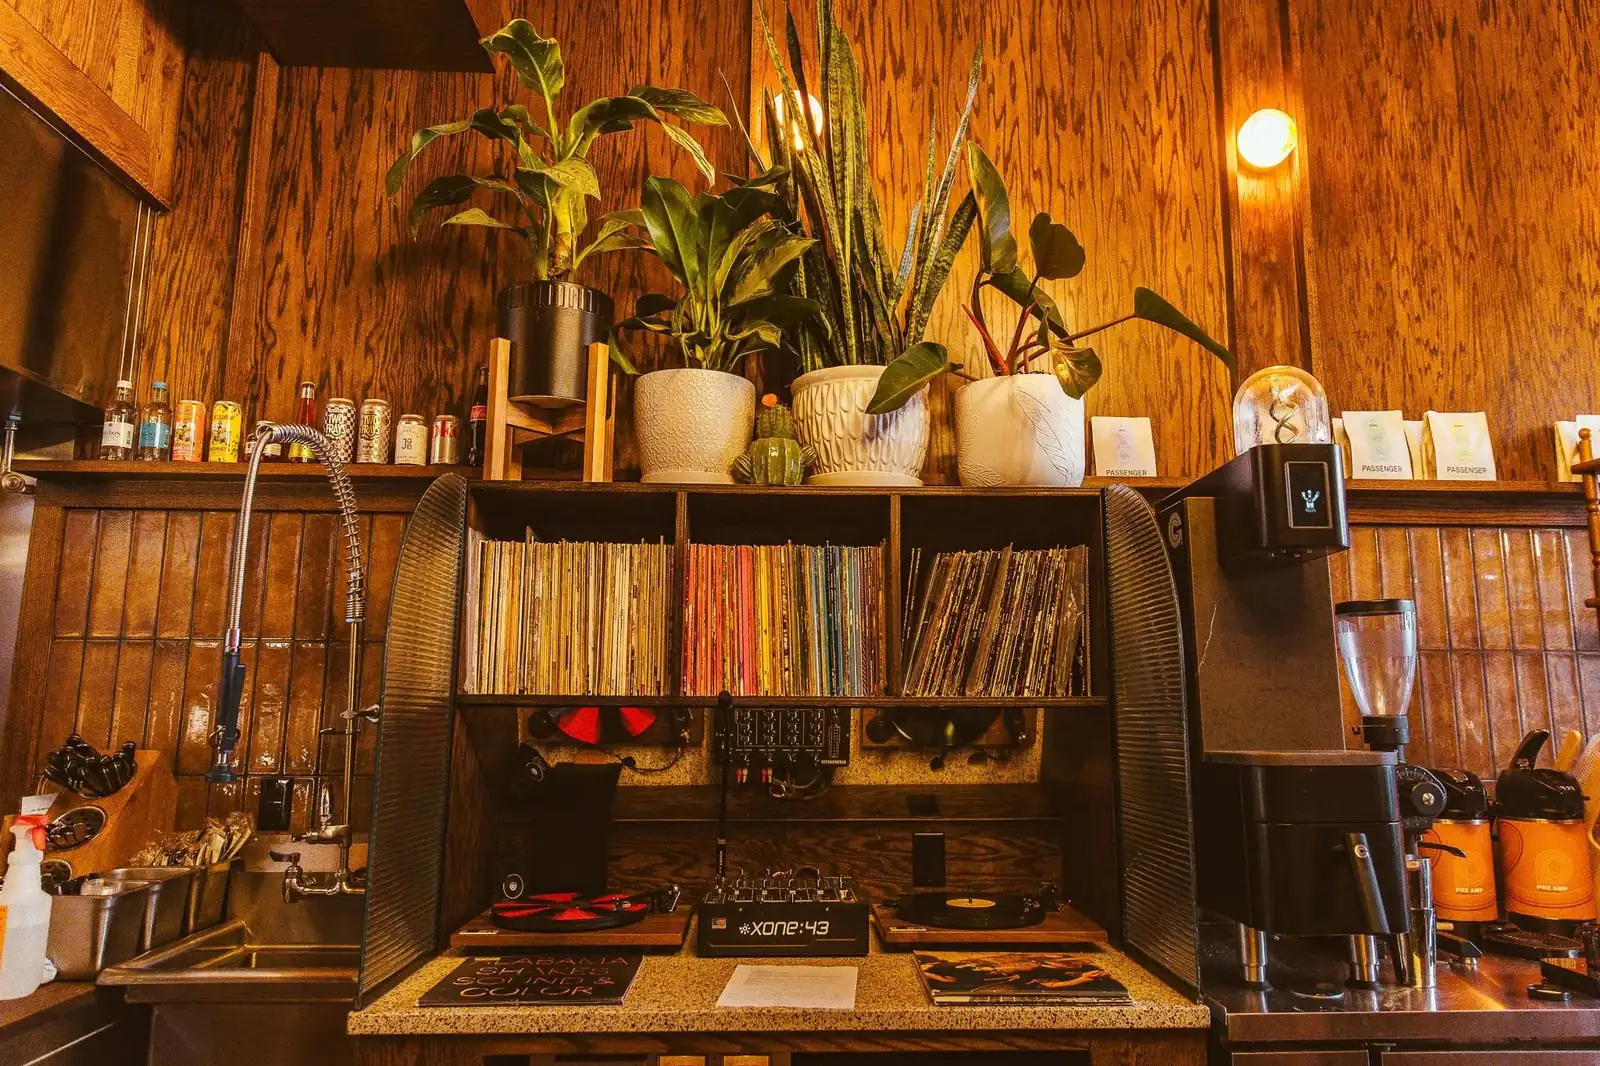
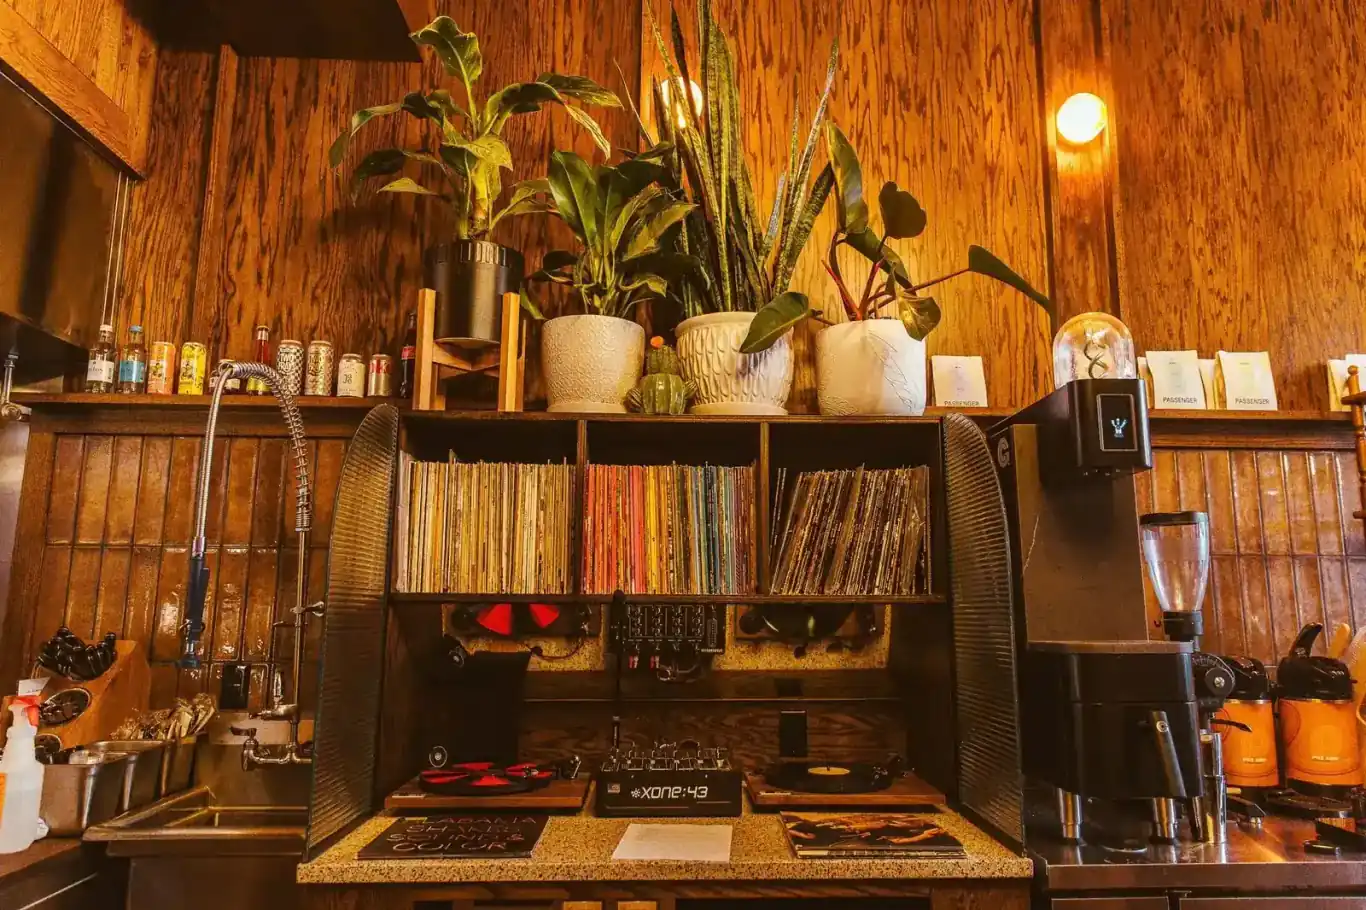
perf(mobile): woff2 font + lighter hero/background images
- Convert the Churchward display font to woff2 (36KB -> 24.6KB) and serve it
  first with the woff as fallback; update the preload to match. Trims the
  critical-path font request that was gating heading render.
- Recompress the home-page background photos, which all sit behind 55-85%
  dark gradient overlays so detail is invisible: the hero backdrop drops from
  231KB to 115KB (also downscaled to 1366px, still ample behind the overlay),
  and the two parallax banners shed ~25KB each.

Claude-Session: https://claude.ai/code/session_01NpW8TfWUjSE1bdhsCakbrZ

Changed region(s): [[0.5534, 0.2462, 0.5842, 0.3077], [0.1845, 0.4, 0.2152, 0.4308]]

diff --git a/src/styles/index.css b/src/styles/index.css
@@ -10,7 +10,9 @@
    Google fonts so headlines read in Churchward where the file loads. */
 @font-face {
   font-family: "Churchward";
-  src: url("/fonts/churchward-design-bold.woff") format("woff");
+  src:
+    url("/fonts/churchward-design-bold.woff2") format("woff2"),
+    url("/fonts/churchward-design-bold.woff") format("woff");
   font-weight: 700;
   font-style: normal;
   font-display: swap;

diff --git a/index.html b/index.html
@@ -16,8 +16,8 @@
     <link
       rel="preload"
       as="font"
-      type="font/woff"
-      href="/fonts/churchward-design-bold.woff"
+      type="font/woff2"
+      href="/fonts/churchward-design-bold.woff2"
       crossorigin
     />
     <!-- Load Google Fonts without blocking first paint. font-display:swap
